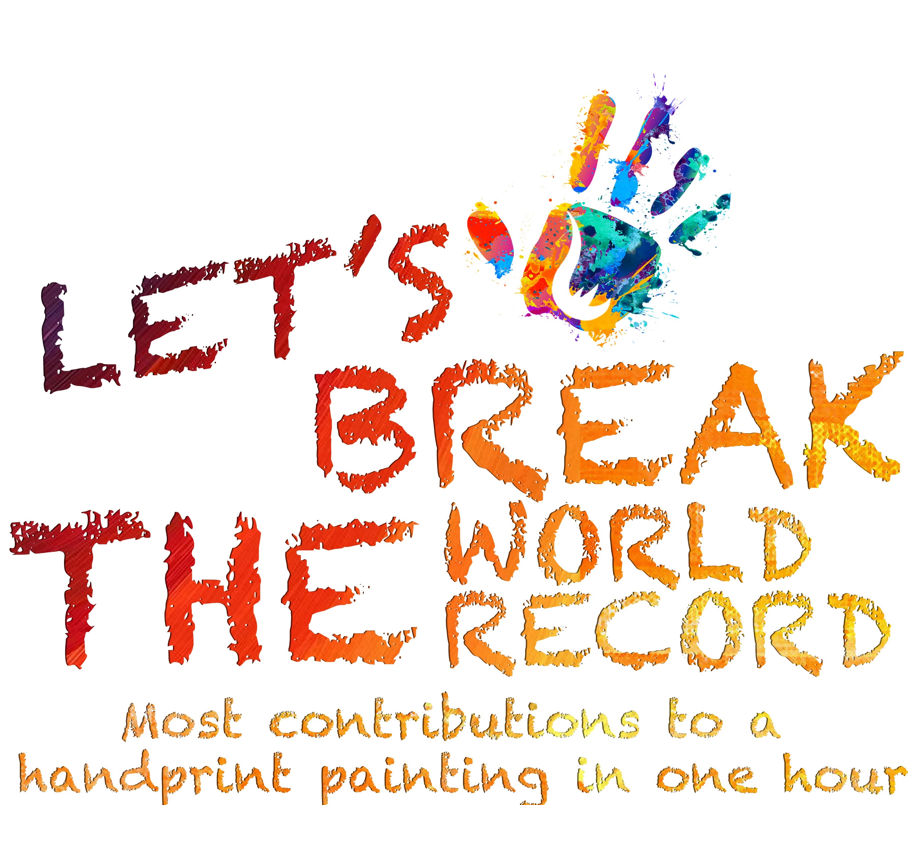
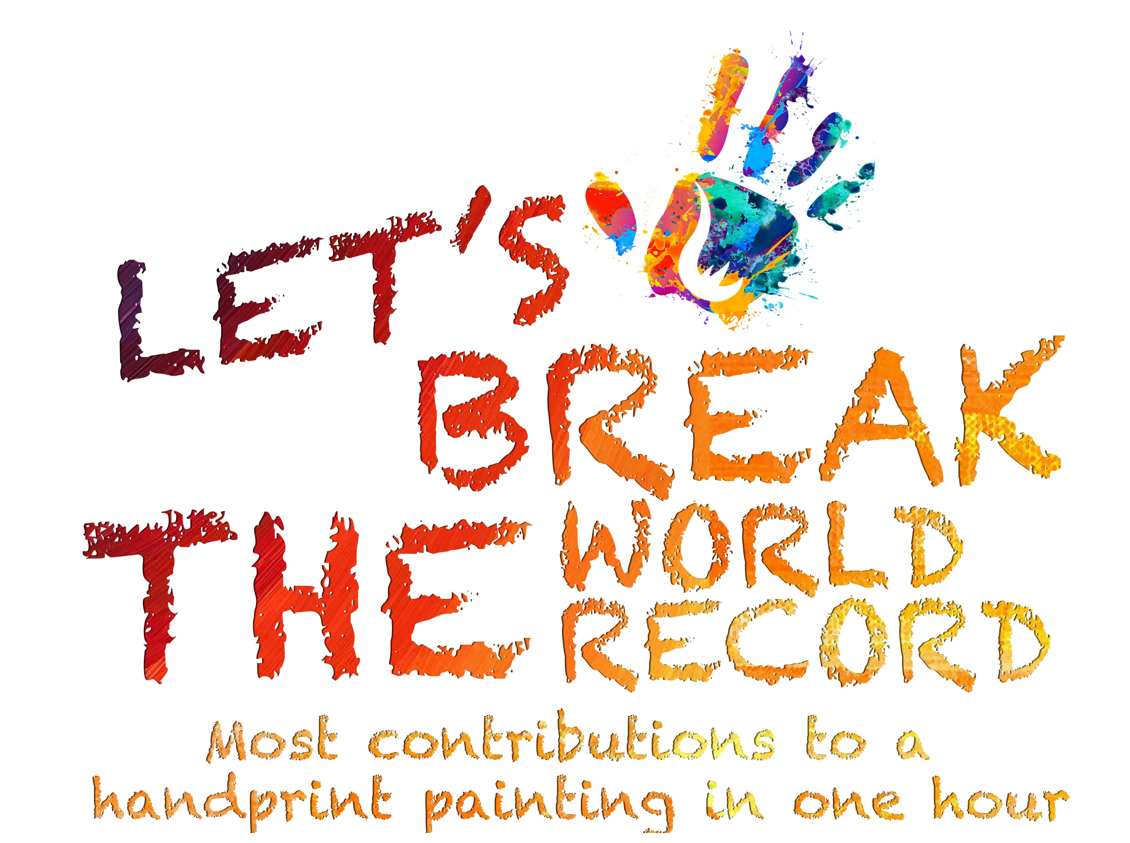
Add files via upload

Changed region(s): [[0.0, 0.0618, 1.0, 0.9893]]

diff --git a/index.html b/index.html
@@ -29,7 +29,7 @@
 <!-- Navigation -->
 <nav class="navbar navbar-expand-lg navbar-light fixed-top" id="mainNav">
   <div class="container">
-    <a class="navbar-brand js-scroll-trigger" href="#page-top">  <img src="img/hkust-logo.jpg" height = "40" width = "150"> </a>
+    <a class="navbar-brand js-scroll-trigger" href="#page-top">  <img src="img/hkust-logo.jpg" height = "40" width = "140"> </a>
     <button class="navbar-toggler navbar-toggler-right" type="button" data-toggle="collapse" data-target="#navbarResponsive" aria-controls="navbarResponsive" aria-expanded="false" aria-label="Toggle navigation">
           Menu
       <i class="fas fa-bars"></i>
@@ -53,10 +53,8 @@
 <!-- Cover Photo -->
 <section class = "coverphoto-section text-center">
   <div class = "container">
-    <div class="row">
-      <div class = "col-xl-8 mx-auto">
+    <div class = "col-lg-8 mx-auto">
         <img src="img/bg-masthead.jpg" class = "img-fluid"> 
-      </div>
     </div>
   </div>
 </section>
@@ -78,7 +76,7 @@
       </div>
     </div>
     <div class = "videoWrapper">
-      <iframe width="560" height="315" src="https://www.youtube.com/embed/Jphnxz_lrck" frameborder="0" allow="autoplay; encrypted-media" allowfullscreen></iframe>
+      <iframe margin-left=auto margin-right=auto width="746" height="420" src="https://www.youtube.com/embed/Pfx5IIC1GJM" frameBorder="0" allow="autoplay; encrypted-media" allowfullscreen></iframe>
     </div>
   </div>
 </section>
@@ -114,7 +112,7 @@
         <form class="form-inline d-flex">
           <a href="https://worldrecord.ust.hk/registration.php" class="btn btn-primary mx-auto"> Register </a>
           <!--<input type="email" class="form-control flex-fill mr-0 mr-sm-2 mb-3 mb-sm-0" id="inputEmail" placeholder="Enter email address...">-->
-          <a href="https://worldrecord.ust.hk/registration.php" class="btn btn-primary mx-auto"> Donate </a>
+          <a href="https://alumgiving.ust.hk/en/projects/detail/dream-chaser-scholarship-fund" class="btn btn-primary mx-auto"> Donate </a>
         </form>
 
       </div>

diff --git a/css/grayscale.min.css b/css/grayscale.min.css
@@ -165,7 +165,6 @@
 		padding:0 0 0 2rem;
 		border-left:.5rem solid #d87402
 	}
-
 }
 .scholarship-section .scholarship-text{
 	padding:3rem;
@@ -263,7 +262,7 @@ footer{
 
 .videoWrapper {
 	position: relative;
-	padding-bottom: 56.25%; /* 16:9 */
+	padding-bottom: 53.6%; /* 16:9 */
 	padding-top: 25px;
 	height: 0;
 }
@@ -283,8 +282,15 @@ footer{
     width: 100%;
 }
 
+.coverphoto-section {
+	padding-top:2rem;
+}
+
 .coverphoto-section img {
 	max-width:100%;
   	height:auto;
   	max-height:100%;
+  	padding-bottom:3rem;
 }
+
+
